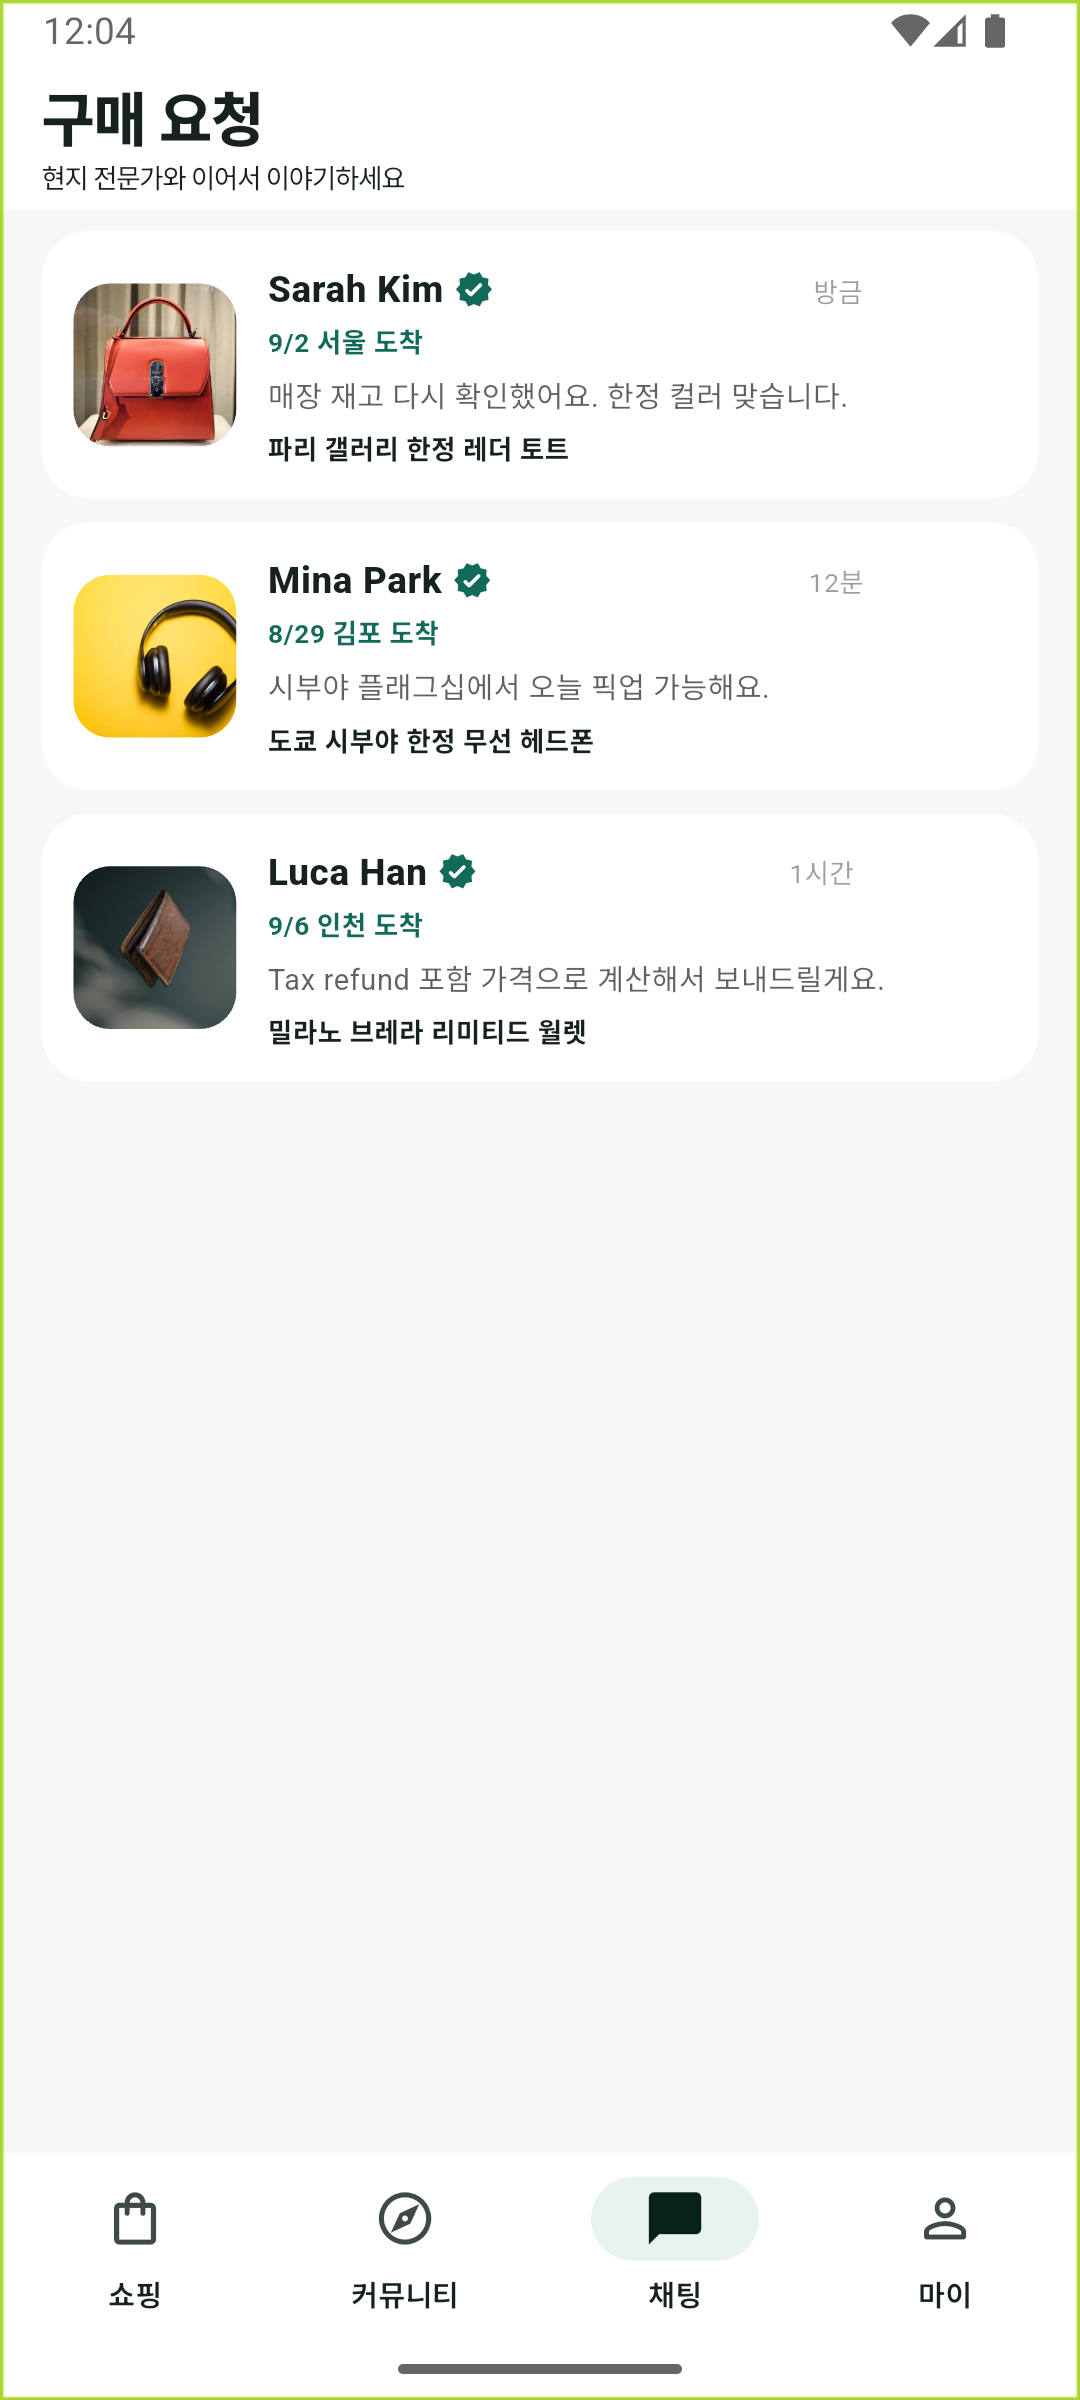
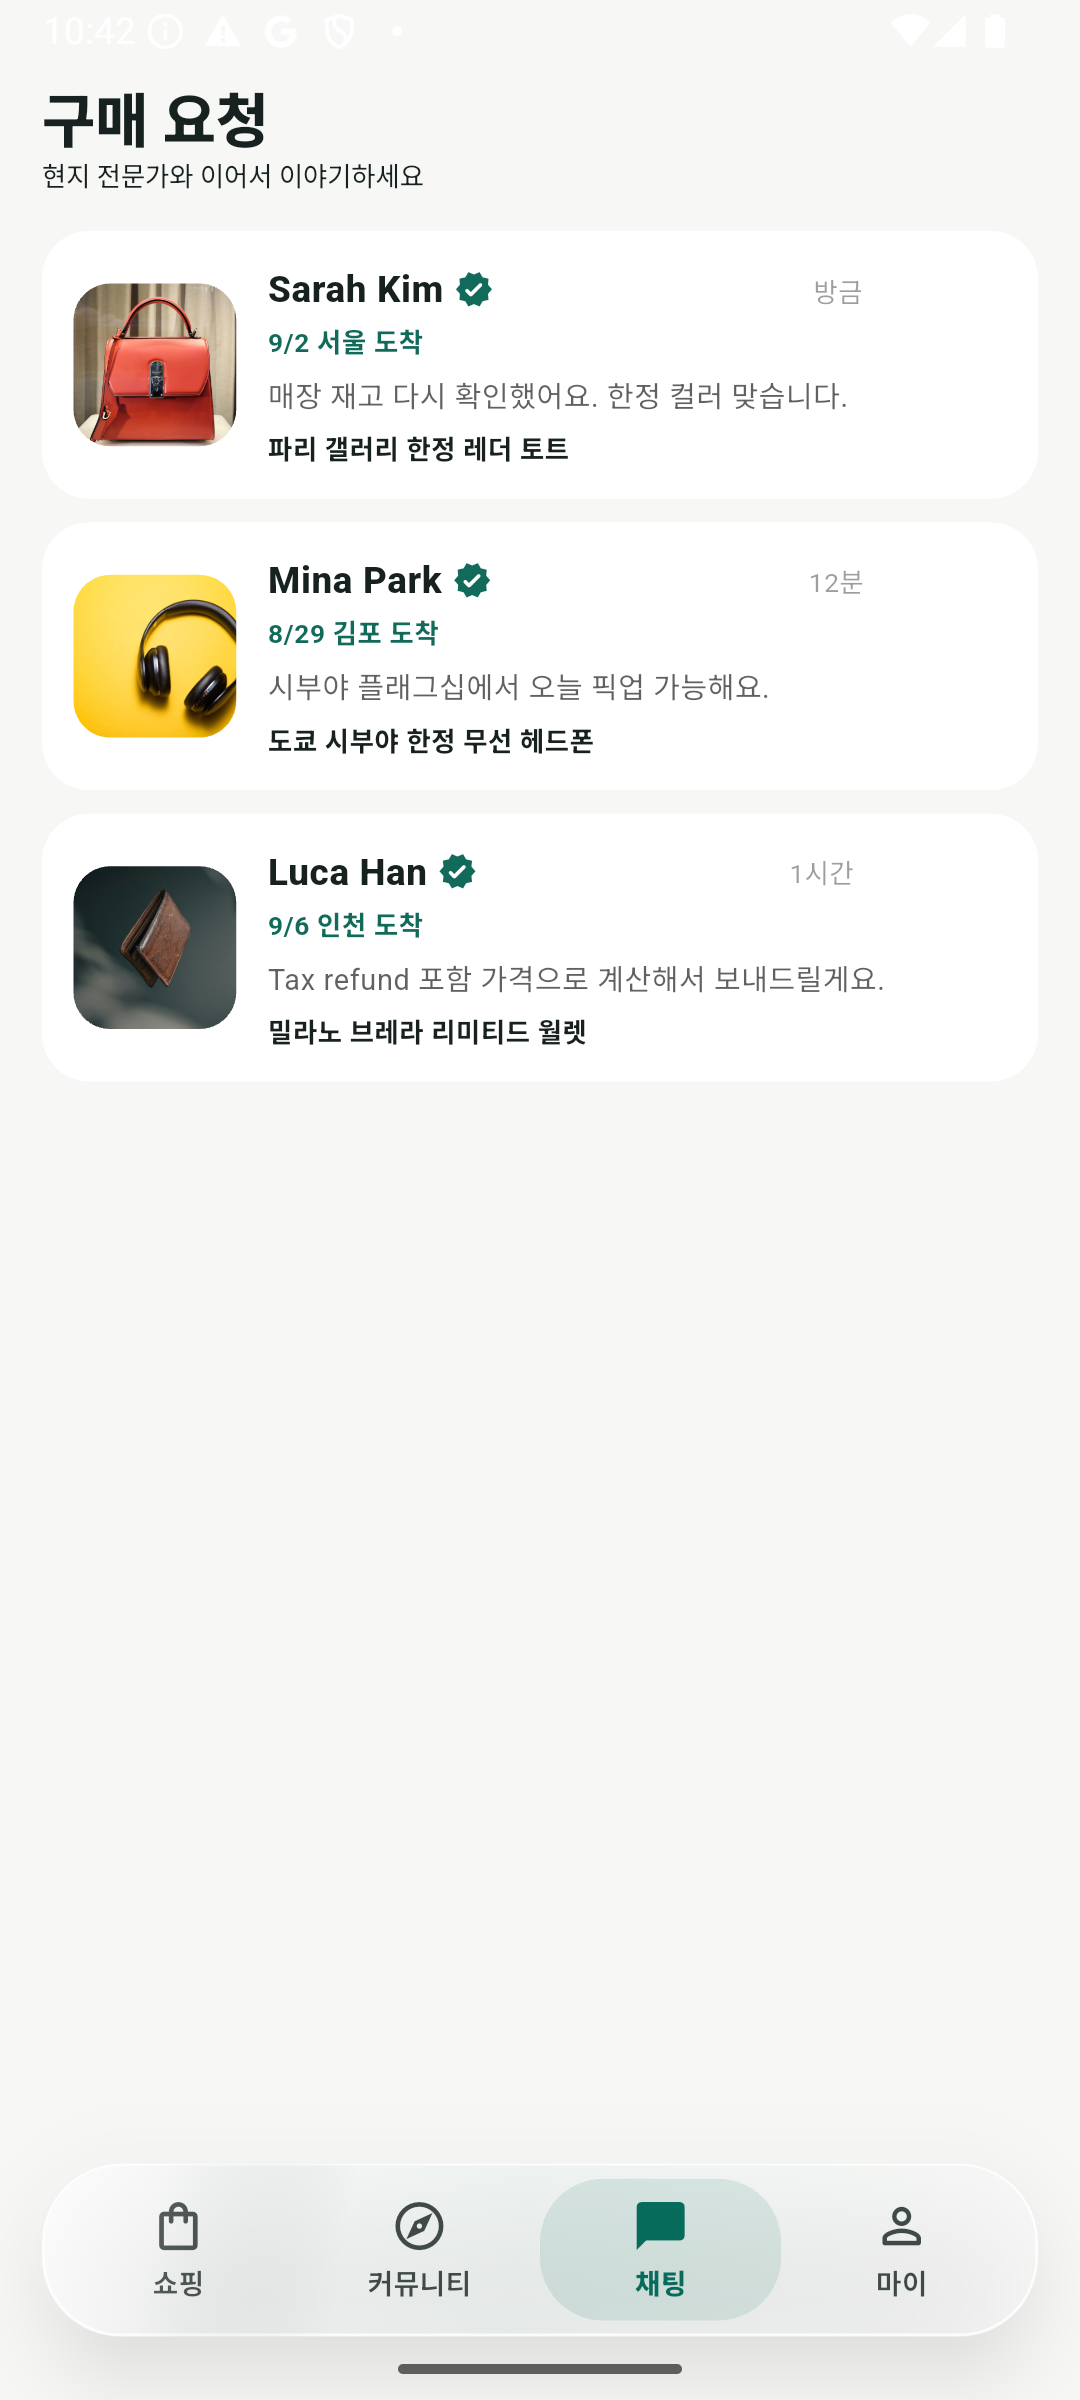
Strengthen Nomad Market liquid glass controls

diff --git a/lib/v2/v2_glass.dart b/lib/v2/v2_glass.dart
@@ -44,7 +44,7 @@ class V2GlassTheme {
         ),
       ),
       floatingActionButtonTheme: FloatingActionButtonThemeData(
-        backgroundColor: Colors.white.withValues(alpha: .88),
+        backgroundColor: Colors.white.withValues(alpha: .46),
         foregroundColor: ink,
         elevation: 0,
         focusElevation: 0,
@@ -54,7 +54,7 @@ class V2GlassTheme {
       ),
       inputDecorationTheme: InputDecorationTheme(
         filled: true,
-        fillColor: Colors.white.withValues(alpha: .82),
+        fillColor: Colors.white.withValues(alpha: .48),
         contentPadding:
             const EdgeInsets.symmetric(horizontal: 16, vertical: 16),
         border: OutlineInputBorder(
@@ -120,7 +120,7 @@ class V2GlassTheme {
       scaffoldBackgroundColor: background,
       canvasColor: background,
       floatingActionButtonTheme: FloatingActionButtonThemeData(
-        backgroundColor: const Color(0xFF25262C).withValues(alpha: .88),
+        backgroundColor: const Color(0xFF25262C).withValues(alpha: .52),
         foregroundColor: ink,
         elevation: 0,
         shape: RoundedRectangleBorder(borderRadius: BorderRadius.circular(22)),
@@ -160,12 +160,16 @@ class AppGlassSurface extends StatelessWidget {
   Widget build(BuildContext context) {
     final media = MediaQuery.maybeOf(context);
     final highContrast = media?.highContrast ?? false;
-    final dark = Theme.of(context).brightness == Brightness.dark;
+    final theme = Theme.of(context);
+    final dark = theme.brightness == Brightness.dark;
     final baseTint = tint ?? (dark ? const Color(0xFF25262B) : Colors.white);
-    final alpha = highContrast ? (dark ? .94 : .96) : (dark ? .60 : .66);
+    final accentTint = Color.lerp(baseTint, theme.colorScheme.primary, dark ? .16 : .10)!;
+    final topAlpha = highContrast ? (dark ? .96 : .98) : (dark ? .60 : .48);
+    final middleAlpha = highContrast ? (dark ? .94 : .96) : (dark ? .50 : .36);
+    final bottomAlpha = highContrast ? (dark ? .92 : .94) : (dark ? .42 : .28);
     final edge = dark
-        ? Colors.white.withValues(alpha: highContrast ? .28 : .18)
-        : Colors.white.withValues(alpha: .86);
+        ? Colors.white.withValues(alpha: highContrast ? .32 : .28)
+        : Colors.white.withValues(alpha: highContrast ? .96 : .78);
 
     Widget content = Padding(padding: padding, child: child);
     if (onTap != null) {
@@ -179,42 +183,80 @@ class AppGlassSurface extends StatelessWidget {
       );
     }
 
-    final decorated = DecoratedBox(
+    final body = Stack(
+      fit: StackFit.passthrough,
+      children: [
+        DecoratedBox(
+          decoration: BoxDecoration(
+            borderRadius: borderRadius,
+            gradient: LinearGradient(
+              begin: Alignment.topLeft,
+              end: Alignment.bottomRight,
+              stops: const [0, .48, 1],
+              colors: [
+                baseTint.withValues(alpha: topAlpha),
+                accentTint.withValues(alpha: middleAlpha),
+                baseTint.withValues(alpha: bottomAlpha),
+              ],
+            ),
+            border: Border.all(color: edge, width: 1),
+          ),
+          child: content,
+        ),
+        Positioned.fill(
+          child: IgnorePointer(
+            child: DecoratedBox(
+              decoration: BoxDecoration(
+                borderRadius: borderRadius,
+                gradient: LinearGradient(
+                  begin: Alignment.topLeft,
+                  end: Alignment.center,
+                  stops: const [0, .24, .62],
+                  colors: [
+                    Colors.white.withValues(alpha: dark ? .16 : .36),
+                    Colors.white.withValues(alpha: dark ? .05 : .11),
+                    Colors.transparent,
+                  ],
+                ),
+              ),
+            ),
+          ),
+        ),
+      ],
+    );
+
+    final clipped = ClipRRect(
+      borderRadius: borderRadius,
+      child: highContrast || blurSigma <= 0
+          ? body
+          : BackdropFilter(
+              filter: ImageFilter.blur(
+                sigmaX: blurSigma + 4,
+                sigmaY: blurSigma + 4,
+              ),
+              child: body,
+            ),
+    );
+
+    final glass = DecoratedBox(
       decoration: BoxDecoration(
         borderRadius: borderRadius,
-        gradient: LinearGradient(
-          begin: Alignment.topLeft,
-          end: Alignment.bottomRight,
-          colors: [
-            baseTint.withValues(alpha: alpha + (dark ? .05 : .12)),
-            baseTint.withValues(alpha: alpha),
-          ],
-        ),
-        border: Border.all(color: edge, width: .8),
         boxShadow: [
           BoxShadow(
-            color: Colors.black.withValues(alpha: dark ? .22 : .09),
-            blurRadius: 26,
-            offset: const Offset(0, 12),
+            color: Colors.black.withValues(alpha: dark ? .28 : .13),
+            blurRadius: 32,
+            spreadRadius: -4,
+            offset: const Offset(0, 14),
           ),
           BoxShadow(
-            color: Colors.white.withValues(alpha: dark ? .04 : .34),
-            blurRadius: 1,
-            offset: const Offset(0, 1),
+            color: Colors.white.withValues(alpha: dark ? .04 : .20),
+            blurRadius: 10,
+            spreadRadius: -5,
+            offset: const Offset(-4, -4),
           ),
         ],
       ),
-      child: content,
-    );
-
-    final glass = ClipRRect(
-      borderRadius: borderRadius,
-      child: highContrast || blurSigma <= 0
-          ? decorated
-          : BackdropFilter(
-              filter: ImageFilter.blur(sigmaX: blurSigma, sigmaY: blurSigma),
-              child: decorated,
-            ),
+      child: clipped,
     );
 
     if (semanticLabel == null) return glass;
